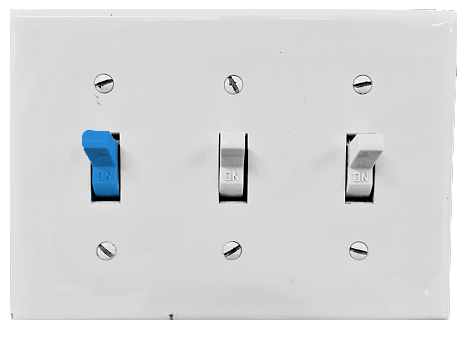
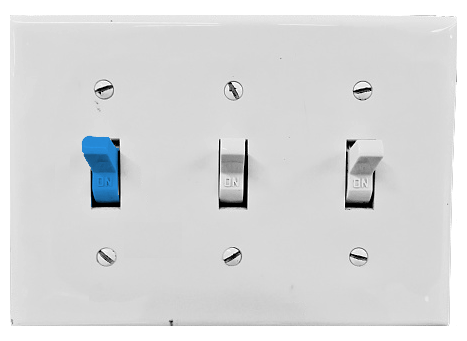
switchs tamanho correto

diff --git a/JavaScript/Nursery.js b/JavaScript/Nursery.js
@@ -273,5 +273,5 @@ function hoverswitch3(){
 }
 
 function nothoverswitch(){
-    interruptores.src= "images/nursery/Switch0.png";
+    interruptores.src= "images/nursery/Switch.png";
 }

diff --git a/nursery.php b/nursery.php
@@ -153,7 +153,7 @@ session_start();
 </div>
 <div id="Interruptor">
     <div class='fundo'></div>
-    <img id='switch' src='images/nursery/Switch0.png' alt="interruptor" usemap="#interruptor">
+    <img id='switch' src='images/nursery/Switch.png' alt="interruptor" usemap="#interruptor">
     <map name="interruptor">
         <area shape="poly" alt="image" onmouseover="hoverswitch1()" onmouseout="nothoverswitch()"
               coords="96,211,95,172,86,156,89,138,113,139,124,141,126,211" >
